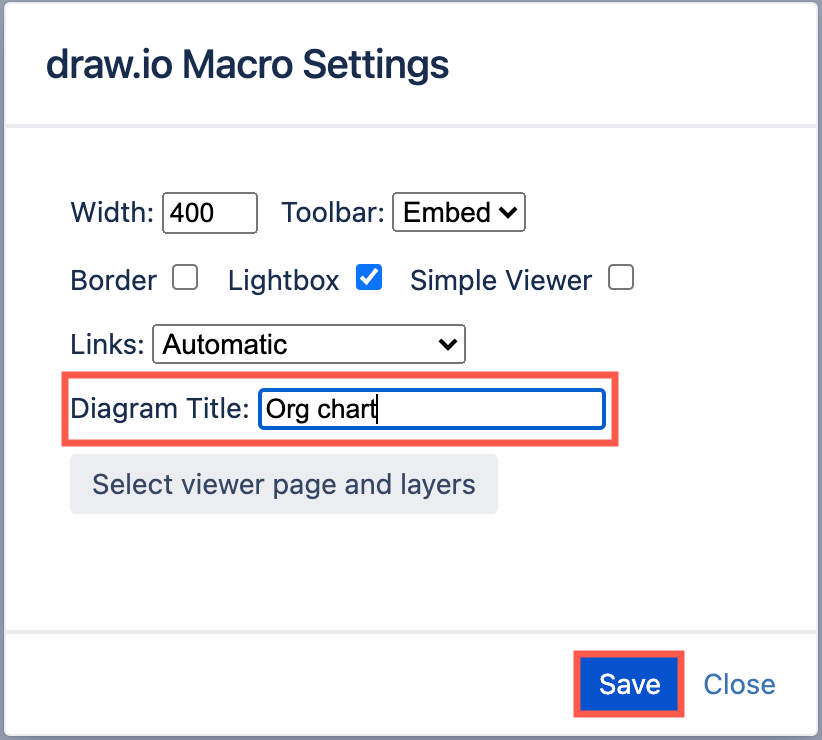
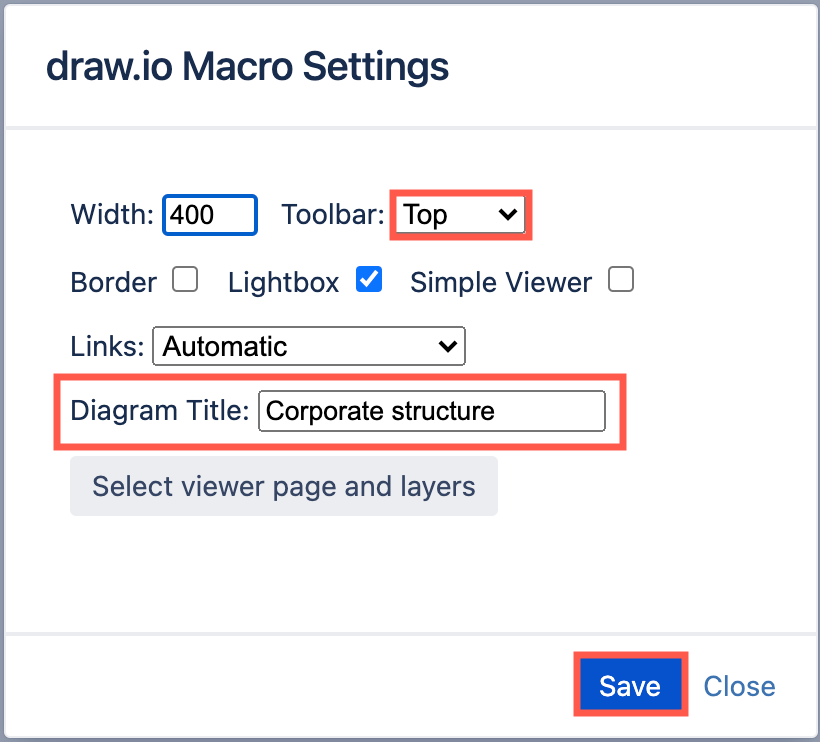
FAQs and edits

diff --git a/doc/faq/confluence-server-change-diagram-title.md b/doc/faq/confluence-server-change-diagram-title.md
@@ -1,0 +1,26 @@
+---
+title: Rename a draw.io diagram in Confluence Data Center and Server
+layout: page
+faq: true
+categories: [Confluence Data Center and Server]
+---
+
+You can change the name of a diagram's title easily by editing the draw.io macro in your Confluence Data Center or Server page. 
+
+1. Edit the Confluence page, click on the macro of the draw.io diagram you want to rename, then click _Edit Macro_.
+<br /><img src="/assets/img/blog/confluence-server-edit-macro.png" style="width=100%;max-width:500px;height:auto;" alt="Edit the draw.io diagram macro settings to change the diagram title in Confluence Data Center and Server">
+2. Enter a new _Diagram Title_, set the _Toolbar_ dropdown to _Top_ so the title is displayed in view mode, then click _Save_.
+<br /><img src="/assets/img/blog/confluence-server-diagram-title-change.png" style="width=100%;max-width:300px;;height:auto;" alt="Change the title of the draw.io diagram in the macro settings in Confluence Data Center and Server">
+3. Save and publish your Confluence page.
+
+Hover over the diagram to see its title and version number above the diagram when you view the Confluence page.
+
+<img src="/assets/img/blog/confluence-server-view-diagram-title.png" style="width=100%;max-width:400px;;height:auto;" alt="Change the title of the draw.io diagram in the macro settings in Confluence Data Center and Server">
+
+
+
+_**Change the filenames of the attachments**_
+
+If you want to change the **filenames** of the attached diagram files on your Confluence page, is more difficult as Atlassian does not easily allow you to rename attachments that are used within macros. 
+
+[See how to manually change the filenames of the the two draw.io attachment files](/doc/faq/confluence-server-change-filename-diagram.html)

diff --git a/doc/faq/insert-text-link.md b/doc/faq/insert-text-link.md
@@ -5,9 +5,16 @@ faq: true
 categories: [Features]
 ---
 
-Select _Arrange > Insert > Text_ to insert a basic text shape. This is the same as double-clicking on an empty section of the drawing canvas and select the Text shape, or dragging the Text shape from the _General_ shape library on the left. 
+**Insert text**
 
-Select _Arrange > Insert > Link_, then enter the link you want to add in the _Edit Link_ dialog. If you want the destination to open in a new tab, click the _Open in New Window_ checkbox, then click _Insert_. 
+Select _Arrange > Insert > Text_ to insert a basic text shape. Alternatively, click the ``+`` icon in the toolbar, then select _Text_.
+
+This is the same as double-clicking on an empty section of the drawing canvas and select the Text shape, or dragging the Text shape from the _General_ shape library on the left. 
+
+**Insert a link**
+
+1. Select _Arrange > Insert > Link_. Alternatively, click the ``+`` icon in the toolbar, then select _Link_.
+2. Enter the link you want to add in the _Edit Link_ dialog. If you want the destination to open in a new tab, click the _Open in New Window_ checkbox, then click _Insert_. 
 <br /><img src="/assets/img/blog/arrange-insert-link.png" style="width=100%;max-width:400px;height:auto;" alt="Enter your link in the text field, then click _Insert_ to add a rectangle shape with the link">
 
 Links are inserted in basic rectangle shapes with rounded corners and a solid white background.

diff --git a/doc/faq/add-images.md b/doc/faq/add-images.md
@@ -21,7 +21,7 @@ Once the image file has been loaded into the editor, you can resize it or [rotat
 
 **Via the menu** 
 
-1. Select _Arrange > Insert > Image_.
+1. Select _Arrange > Insert > Image_.  Alternatively, click the ``+`` icon in the toolbar, then select _Image_.
 <br /><img src="/assets/img/blog/arrange-insert-image.png" style="width=100%;max-width:400px;height:auto;" alt="Select Arrange > Insert > Image in the diagrams.net editor">
 2. Paste the URL to your image file, or drag it from your desktop onto the dialog.
 <br /><img src="/assets/img/blog/image-insert-url.png" style="width=100%;max-width:300px;height:auto;" alt="Paste the URL to your image file, or drag it onto the dialog and click Apply to add an image to your diagram">
@@ -29,6 +29,10 @@ Once the image file has been loaded into the editor, you can resize it or [rotat
 **Note:** Larger image files may take a few moments before they are visible in the diagram editor.
 
 [See all of the elements you can insert into your diagram](/doc/faq/arrange-insert-menu.html)
+
+Alternatively, you can access the _Insert_ tool (``+``) via the toolbar that is just above the drawing canvas.
+
+<img src="/assets/img/blog/toolbar-insert.png" style="width=100%;max-width:400px;height:auto;" alt="You can insert a wide range of shapes, text, links, layouts, images, templates and more via the Insert tool on the toolbar in diagrams.net">
 
 ## Image quality and size
 

diff --git a/doc/faq/confluence-server-change-filename-diagram.md b/doc/faq/confluence-server-change-filename-diagram.md
@@ -1,9 +1,18 @@
 ---
-title: Rename a draw.io diagram file in Confluence Server
+title: Change the filename of an attached diagram file in Confluence Data Center and Server
 layout: page
 faq: true
 categories: [Confluence Data Center and Server]
 ---
+
+**Note:** You can [change the **title** of a diagram in a page from the draw.io diagram macro settings](/doc/faq/confluence-server-change-diagram-title.html). 
+
+The diagram title is displayed when you hover over a diagram in view mode, if the toolbar is displayed at the top (in the _draw.io Macro Settings_ for that diagram).
+<br /><img src="/assets/img/blog/confluence-server-view-diagram-title.png" style="width=100%;max-width:300px;;height:auto;" alt="Change the title of the draw.io diagram in the macro settings in Confluence Data Center and Server">
+
+However, if you want to rename the **filename of the attachments**, follow the steps below.
+
+## Change the filename of a draw.io diagram attachment
 
 Confluence doesn't easily allow you to rename attachments that are used within macros. You can manually rename the two attachment files and edit the source of the Confluence page with a free app.
 

diff --git a/doc/faq/insert-layouts.md b/doc/faq/insert-layouts.md
@@ -7,7 +7,7 @@ categories: [Features]
 
 You can use the automatic layout dialog in diagrams.net to build neat flow charts, trees and other common layouts quickly. 
 
-1. Click _Arrange > Insert > Layout_, then select the diagram type and layout you want to use. 
+1. Click _Arrange > Insert > Layout_, then select the diagram type and layout you want to use.  Alternatively, click the ``+`` icon in the toolbar, then select _Layout_ and select the layout you want to use.
 <br /><img src="/assets/img/blog/arrange-insert-layout.png" style="width=100%;max-width:400px;height:auto;" alt="Select Arrange > Insert > Layout then select a layout to quickly build your diagram">
 2. Build your diagram: Click on the arrow at the bottom right of a parent shape to add a child shape. The shapes already in the diagram will be automatically moved to make space for it following the layout you chose.
 <br /><img src="/assets/img/blog/insert-layout-horizontal-flow.png" style="width=100%;max-width:400px;height:auto;" alt="Add child shapes to your diagram by clicking on the blue arrows at the bottom right of the parent shape">

diff --git a/doc/faq/arrange-insert-menu.md b/doc/faq/arrange-insert-menu.md
@@ -9,6 +9,12 @@ Use the _Arrange > Insert_ submenu in the diagrams.net editor to insert various 
 
 <img src="/assets/img/blog/arrange-insert.png" style="width=100%;max-width:400px;height:auto;" alt="You can insert a wide range of shapes, text, links, layouts, images, templates and more via the Arrange > Insert menu in diagrams.net">
 
+Alternatively, you can access the _Insert_ tool (``+``) via the toolbar that is just above the drawing canvas.
+
+<img src="/assets/img/blog/toolbar-insert.png" style="width=100%;max-width:400px;height:auto;" alt="You can insert a wide range of shapes, text, links, layouts, images, templates and more via the Insert tool on the toolbar in diagrams.net">
+
+## What can you insert into a diagram?
+
 **Basic shapes:** Select [_Arrange > Insert_ then select _Rectangle_, _Ellipse_ or _Rhombus_](/doc/faq/insert-shapes.html) to insert that shape.
 <br /><img src="/assets/img/blog/insert-rectangle-ellipse-rhombus.png" style="width=100%;max-width:200px;height:auto;" alt="You can insert rectangle, ellipse, and rhombus shapes via the Arrange > Insert menu in diagrams.net">
 

diff --git a/_posts/2019-04-08-insert-sql.md b/_posts/2019-04-08-insert-sql.md
@@ -16,7 +16,7 @@ You can document your existing databases quickly and easily in diagrams.net by i
 
 As SQL and MySQL are the most popular languages used to program and work with relational database systems, diagrams.net has made it easy to automatically create your diagrams from your code.
 
-1. Click _Arrange > Insert > Advanced > SQL_.
+1. Click _Arrange > Insert > Advanced > SQL_. Alternatively, click the ``+`` icon in the toolbar, then select _Advanced > SQL_.
 <br /><img src="/assets/img/blog/arrange-insert-advanced-sql-menu.png" style="max-width:100%;height:auto;" alt="Arrange > Insert > Advanced > SQL to create an ER diagram from SQL code">
 2. You'll see an example of SQL code in the dialog that appears. Copy and paste your SQL or MySQL code into the dialog, then click _Insert_.
 <br /><img src="/assets/img/blog/insert-sql-dialog.png" style="width=100%;max-width:400px;height:auto;" alt="Insert SQL code then click Insert to create an ER diagram automatically">

diff --git a/doc/faq/insert-shapes.md b/doc/faq/insert-shapes.md
@@ -7,7 +7,8 @@ categories: [Features]
 
 While you would normally double click on the drawing canvas and select a shape, or drag a shape from the shape libraries, you can also add some basic shapes via the _Arrange > Insert_ menu. 
 
-Select _Arrange > Insert_ then choose one of _Rectangle_, _Ellipse_ or _Rhombus_ to add that shape to the drawing canvas. 
+Select _Arrange > Insert_ then choose one of _Rectangle_, _Ellipse_ or _Rhombus_ to add that shape to the drawing canvas.  Alternatively, click the ``+`` icon in the toolbar, then select the shape you want to insert.
 <br /><img src="/assets/img/blog/insert-rectangle-ellipse-rhombus.png" style="width=100%;max-width:200px;height:auto;" alt="You can insert rectangle, ellipse, and rhombus shapes via the Arrange > Insert menu in diagrams.net">
+
 
 [See all of the elements you can insert into your diagram](/doc/faq/arrange-insert-menu.html)

diff --git a/doc/faq/insert-from-csv.md b/doc/faq/insert-from-csv.md
@@ -9,7 +9,7 @@ You can insert CSV data a along with formatting information to automatically gen
 
 First, [prepare the formatting information and CSV data using this tutorial](/blog/insert-from-csv.html).
 
-1. Select _Arrange > Insert > Advanced > CSV_.
+1. Select _Arrange > Insert > Advanced > CSV_. Alternatively, click the ``+`` icon in the toolbar, then select _Advanced > CSV_.
 <br /><img src="/assets/img/blog/arrange-insert-advanced-csv.png" style="width=100%;max-width:300px;height:auto;" alt="Select Arrange > Insert > Advanced > CSV">
 2. Paste your formatting information and CSV data into the large text field, overwriting the example.
 <br /><img src="/assets/img/blog/csv-dialog.png" style="width=100%;max-width:300px;height:auto;" alt="Paste your formatting information and CSV data into the large text field, then click Import">

diff --git a/_posts/2020-04-15-mermaid-diagrams.md b/_posts/2020-04-15-mermaid-diagrams.md
@@ -14,7 +14,7 @@ Many developers prefer to describe their data structures and processes using tex
 
 ## Insert a Mermaid diagram
 
-1. Click _Arrange > Insert > Advanced > Mermaid_.
+1. Click _Arrange > Insert > Advanced > Mermaid_. Alternatively, click the ``+`` icon in the toolbar, then select _Advanced > Mermaid_.
 <br /><img src="/assets/img/blog/insert-mermaid-menu.png" style="max-width:100%;height:auto;" alt="Click Arrange > Insert > Advanced > Mermaid to create a diagram from Mermaid Markdown-inspired code">
 2. Paste your text into the text box, then click _Insert_.
 <br /><img src="/assets/img/blog/mermaid-flowchart-example-code.png" style="width=100%;max-width:400px;height:auto;" alt="Paste the text in Mermaid syntax, then click Insert">

diff --git a/doc/faq/svg-insert.md b/doc/faq/svg-insert.md
@@ -8,7 +8,7 @@ categories: [Shapes]
 1. Insert scalable SVG images into a diagram using one of the methods below.
    * Drag and drop the SVG image file from your computer onto the drawing canvas.
    * Drag the URL of the SVG image from your browser onto the drawing canvas.
-   * Select _Arrange > Insert > Image_, then drag the diagram file or URL onto the dialog and click _Apply_.
+   * Select _Arrange > Insert > Image_, or click ``+`` in the toolbar and select _Image_, then drag the diagram file or URL onto the dialog and click _Apply_.
 2. Select _Actual Size_ to ensure your SVG image is inserted cleanly.
 3. Once the SVG image is added to the drawing canvas as a shape, you can resize it.
 

diff --git a/_posts/2019-12-27-insert-from-text.md b/_posts/2019-12-27-insert-from-text.md
@@ -10,7 +10,9 @@ categories: [features]
 
 Several features in our diagram editor let you create diagrams automatically from simple text statements.
 
-Click on _Arrange > Insert > Advanced_ to find the text entry features. These include:
+Click on _Arrange > Insert > Advanced_ to find the text entry features. Alternatively, click the ``+`` icon in the toolbar, then select _Advanced_.
+
+The text insert features include:
 
 * **From Text:** Create a simple hierarchical (tree) diagram or add entities containing simple lists.
 * **PlantUML:** Create a variety of UML and flow diagrams, and use the Graphviz DOT code to create tree diagrams, data flows, graphs and more.
